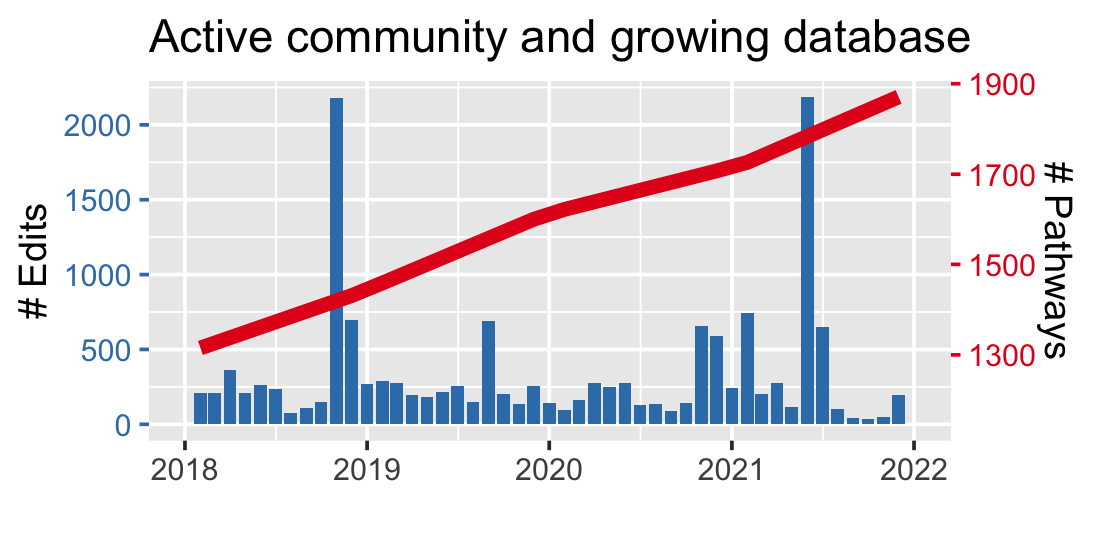
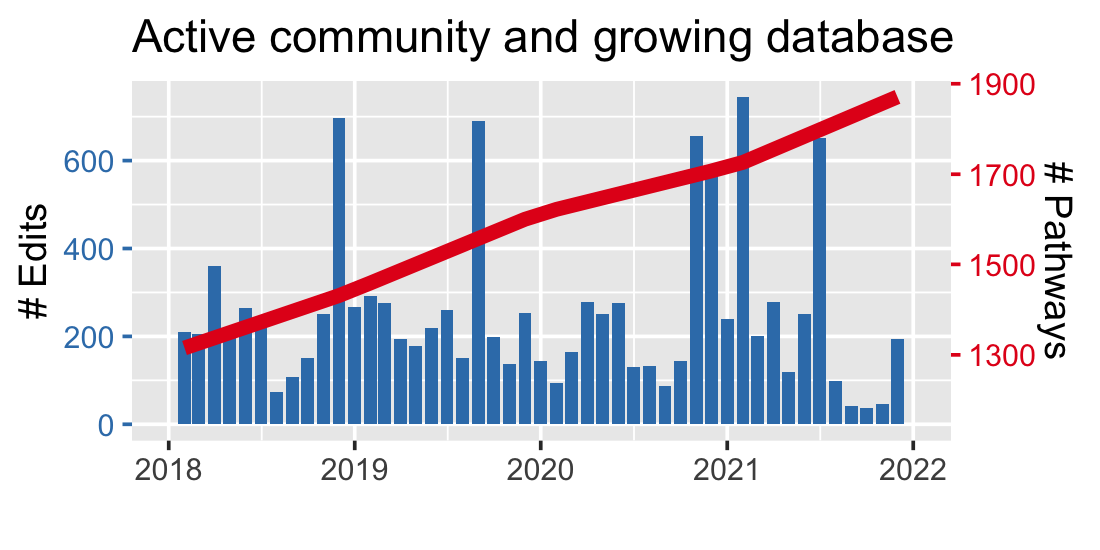
improved scale for # edits

diff --git a/_rmd/stats.md b/_rmd/stats.md
@@ -1,6 +1,7 @@
 ---
 title: stats
 ---
+
 # WikiPathways Stats
 
 This R notebooks prepares figures to summarize WikiPathways activity.
@@ -65,6 +66,10 @@ Next, let’s plot a time series
 # RColorBrewer::display.brewer.all()
 bcols <- RColorBrewer::brewer.pal(3,"Set1")
 
+# remove outliers (replace with average)
+combo.df <- combo.df %>%
+  mutate(edits = ifelse(edits > 2000, 250, edits))
+
 # scaling
 ylim.prim <- c(0, max(combo.df$edits, na.rm = T)) # range for edits
 ylim.sec <- c(min(combo.df$pathways, na.rm = T), max(combo.df$pathways, na.rm = T))    # range for pathways
@@ -79,7 +84,8 @@ p <- ggplot(combo.df) +
   scale_x_date(date_breaks = "1 year", date_labels = "%Y",
                name = "",
                limits = c(as.Date(strptime("2018","%Y")),as.Date(strptime("2022","%Y")))) +
-  scale_y_continuous(name="# Edits",  
+  scale_y_continuous(name="# Edits", 
+                     limits = ylim.prim,
                      sec.axis=sec_axis(~ (. - a)/b, 
                                        name="# Pathways")) +
   ggtitle("Active community and growing database") +
